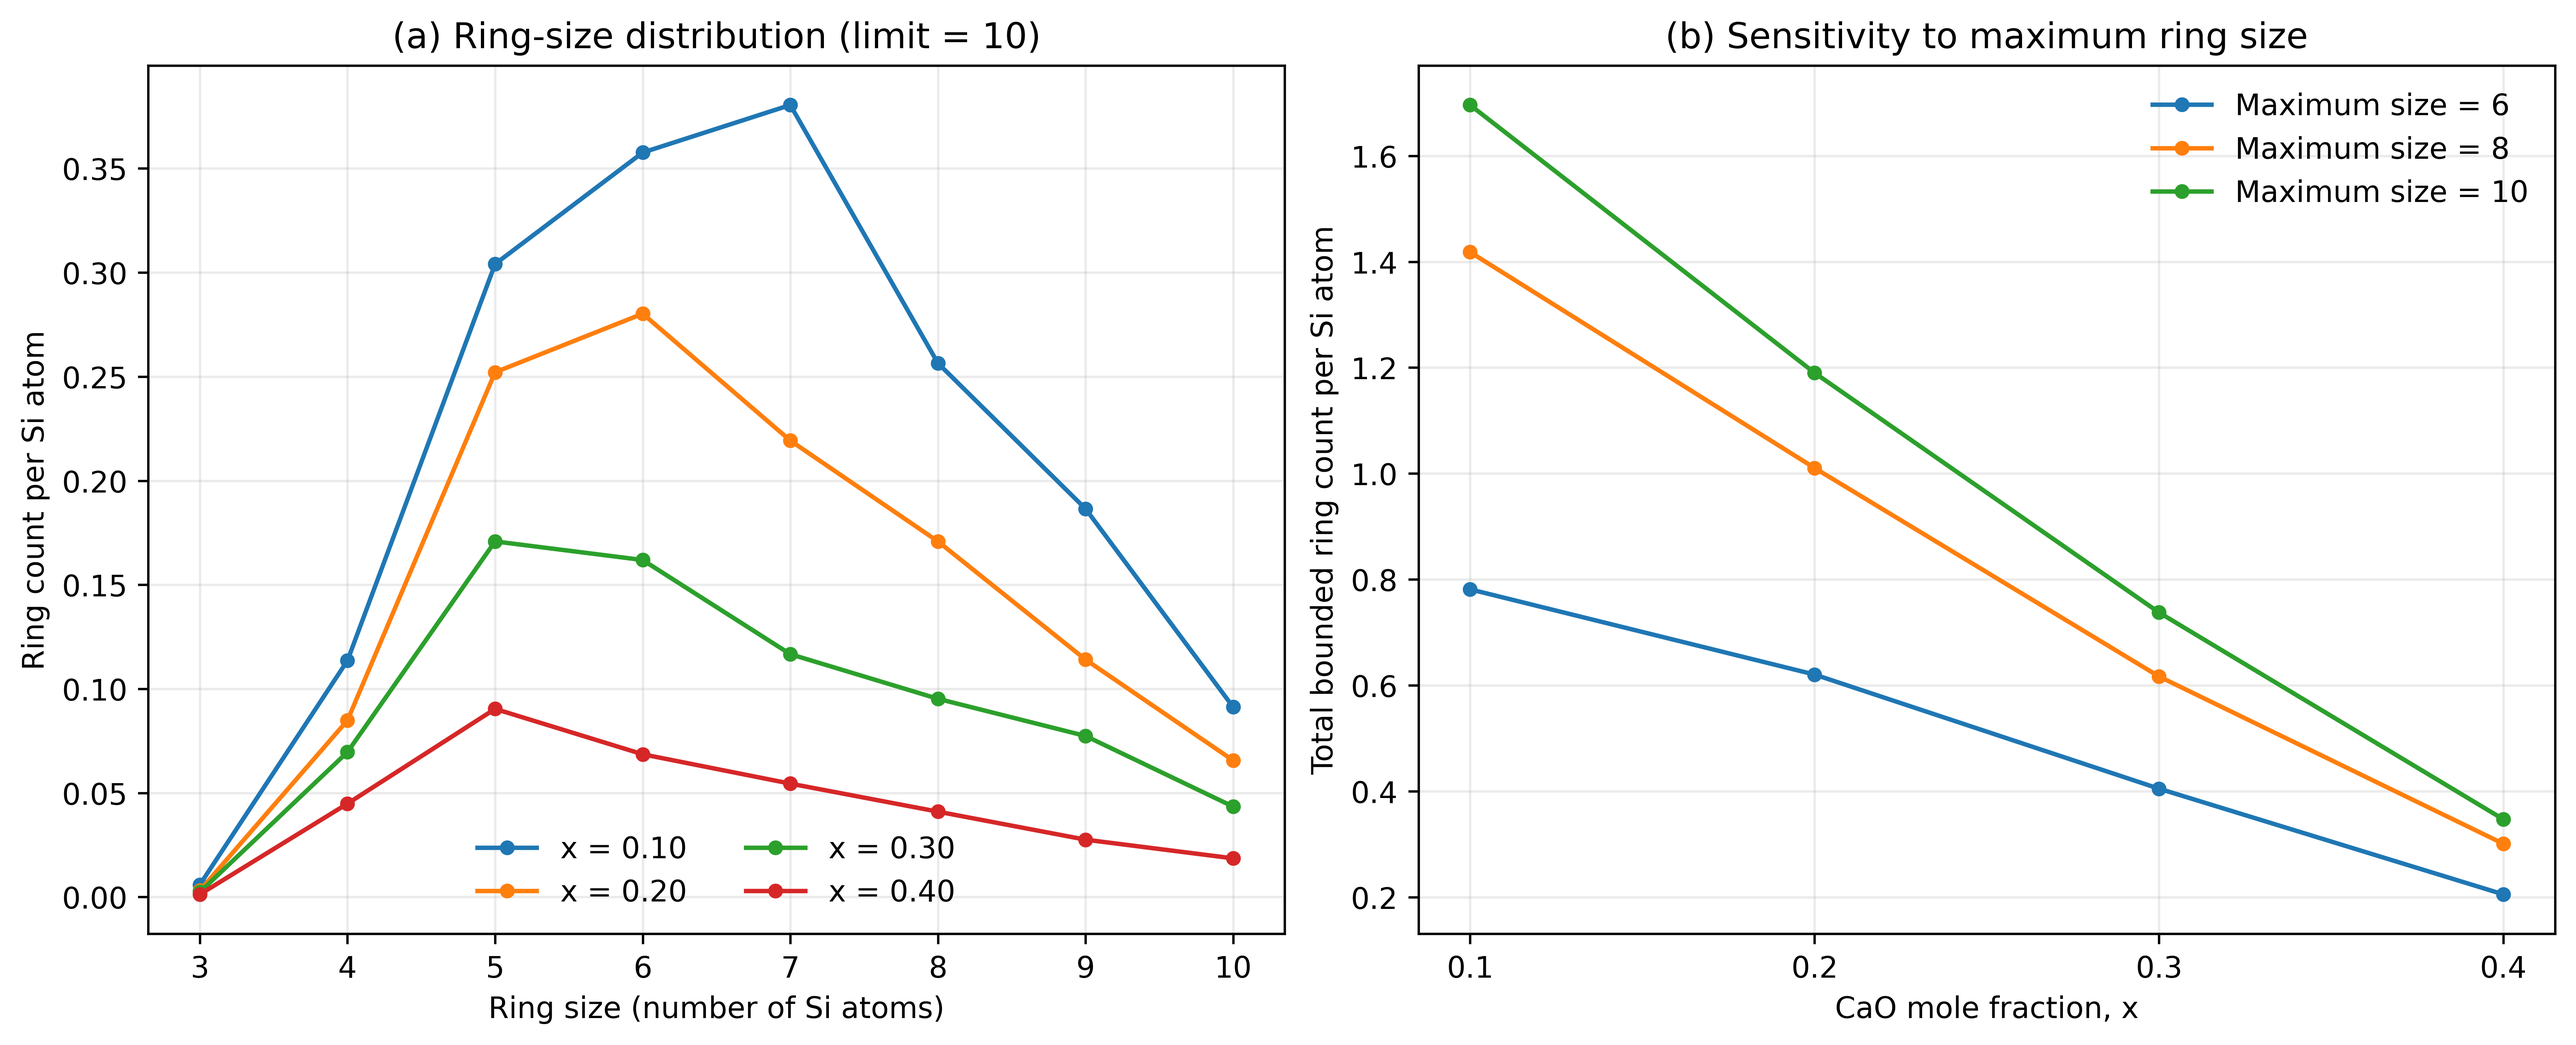
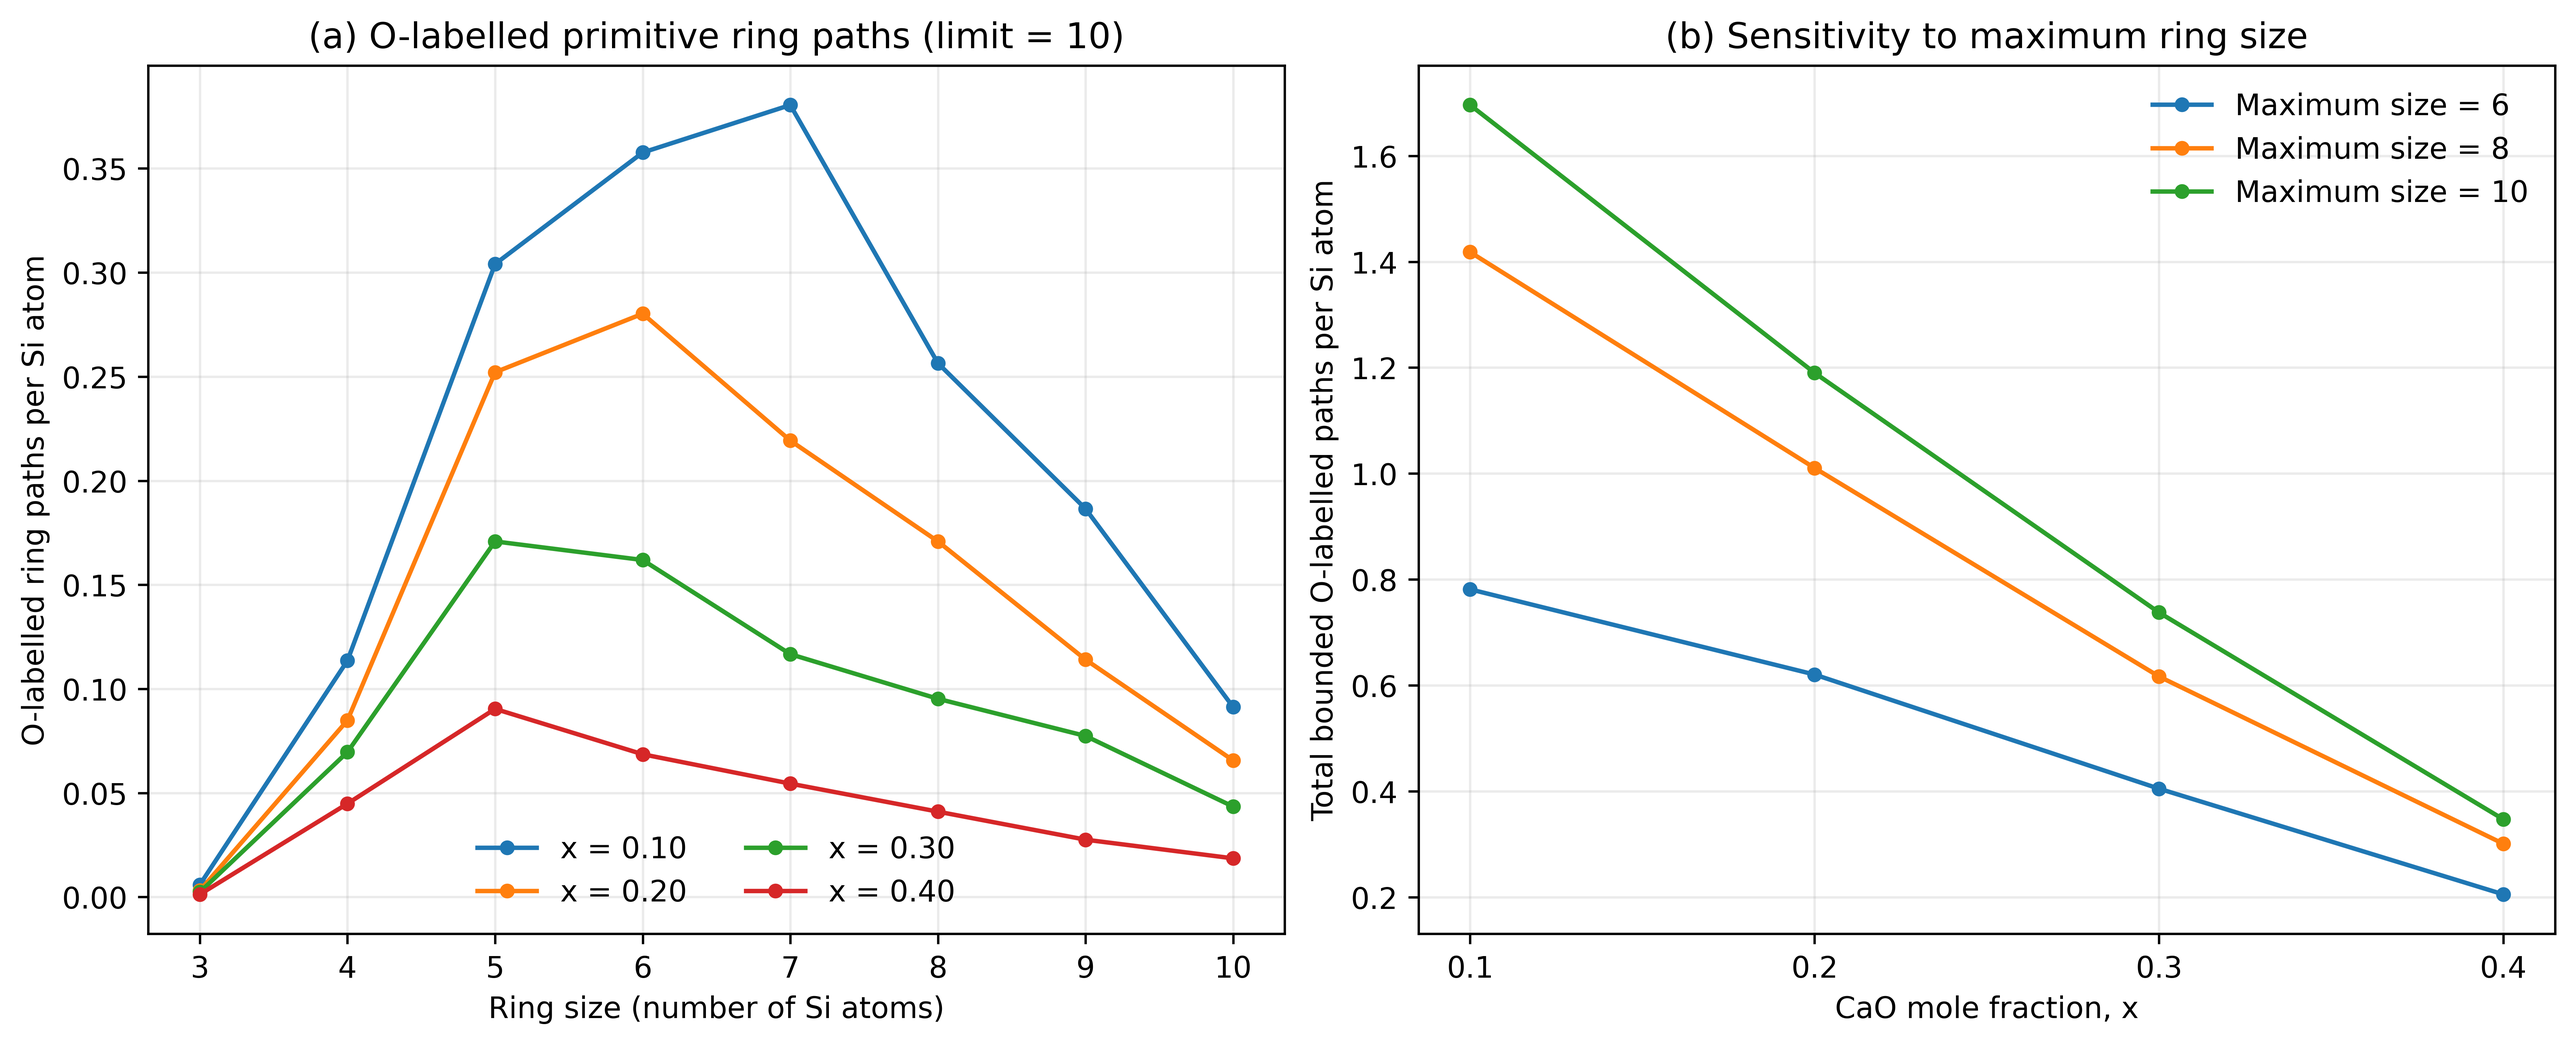
Clarify oxygen-labelled periodic ring analysis

diff --git a/workflow/analyze_periodic_rings.py b/workflow/analyze_periodic_rings.py
@@ -158,8 +158,8 @@ def main():
         )
 
     ax1.set_xlabel("Ring size (number of Si atoms)")
-    ax1.set_ylabel("Ring count per Si atom")
-    ax1.set_title("(a) Ring-size distribution (limit = 10)")
+    ax1.set_ylabel("O-labelled ring paths per Si atom")
+    ax1.set_title("(a) O-labelled primitive ring paths (limit = 10)")
     ax1.set_xticks(ring_sizes)
     ax1.grid(True, alpha=0.25)
     ax1.legend(frameon=False, ncol=2)
@@ -181,7 +181,7 @@ def main():
         )
 
     ax2.set_xlabel("CaO mole fraction, x")
-    ax2.set_ylabel("Total bounded ring count per Si atom")
+    ax2.set_ylabel("Total bounded O-labelled paths per Si atom")
     ax2.set_title("(b) Sensitivity to maximum ring size")
     ax2.set_xticks([x for x, _ in STRUCTURES])
     ax2.grid(True, alpha=0.25)
@@ -220,21 +220,27 @@ For each enumerated ring, the local minimum-image bond displacement
 vectors are summed around the closed path. The resulting translation
 is classified as contractible, winding, or invalid using the analyzer's
 periodic-winding tolerance.
+The net displacement is compared with integer lattice translations of the
+orthorhombic simulation cell. A ring is classified as winding if the nearest
+integer winding vector is nonzero and the absolute residual in every Cartesian
+component does not exceed 10^{-5} Å. It is classified as contractible if the
+winding vector is zero and the same residual criterion is satisfied; otherwise,
+it is classified as invalid.
 
 Reported limits and normalization
 ---------------------------------
 Maximum ring sizes: 6, 8, and 10 Si atoms.
-The CSV reports counts by ring size, ring count divided by the number
-of Si atoms, fraction of all enumerated rings at that limit, and the
+The CSV reports oxygen-labelled path counts by ring size, with each count divided by the number
+of Si atoms, fraction of all enumerated paths at that limit, and the
 counts in each winding classification.
 
 Interpretation and limitations
 ------------------------------
-These are bounded, method-dependent primitive ring counts, not a
+These are bounded, method-dependent counts of oxygen-labelled primitive ring paths, not a
 complete census of every possible ring in the periodic multigraph.
 The analysis does not enumerate two-edge, two-Si cycles created by
 parallel BO edges. Rings overlap, so rings per Si is a normalized
-count, not the fraction of Si atoms belonging to rings.
+path count, not the fraction of Si atoms belonging to rings.
 
 A zero winding count means no winding ring was identified among the
 rings enumerated at that size limit; it does not prove that no larger
@@ -251,7 +257,7 @@ consider both the common size limits and the dependence on that limit.
     print(f"Figure PDF:  {FIGURE_PDF.relative_to(ROOT)}")
     print(f"Methods:     {METHODS_PATH.relative_to(ROOT)}")
 
-    print("\nSummary: total bounded rings and rings per Si")
+    print("\nSummary: total bounded O-labelled paths and paths per Si")
     print("x_CaO  max_size  total_rings  rings_per_Si")
     for x, _ in STRUCTURES:
         for max_size in MAX_RING_SIZES:
